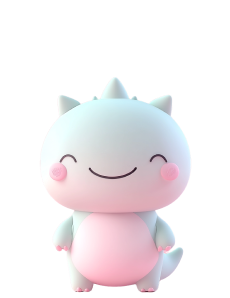
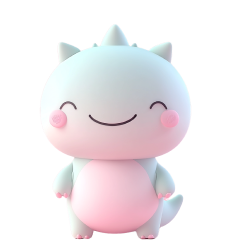
fix: smaller animal image in small devices

diff --git a/src/components/profile/ProfileCard.tsx b/src/components/profile/ProfileCard.tsx
@@ -20,16 +20,18 @@ const ProfileCard: React.FC<ProfileCardProps> = ({
   return (
     <div
       className={cn(
-        "profile-card-background rounded-[30px] shadow-md overflow-hidden flex flex-col justify-center items-center gap-[8.61px] p-[20px_20px_15px] select-none",
+        "profile-card-background rounded-4xl shadow-md overflow-hidden flex flex-col justify-center items-center gap-2 p-5 select-none",
         className
       )}
     >
-      <div className="flex flex-col items-center gap-[15px] w-[245.47px]">
+      <div className="flex flex-col items-center gap-4">
         <Badge
           variant="outline"
           className={cn(
-            "profile-badge rounded-[50px] px-[13px] py-[4px] flex justify-center items-center gap-[3px]",
-            profile.gender === "MALE" ? "text-blue" : "text-primary"
+            "profile-badge rounded-full px-3 py-1 flex justify-center items-center gap-1",
+            profile.gender === "MALE"
+              ? "border-blue/50 text-blue"
+              : "border-primary/50 text-primary"
           )}
         >
           {animalDisplayMap[profile.animal]}상
@@ -41,40 +43,32 @@ const ProfileCard: React.FC<ProfileCardProps> = ({
           />
           {profile.mbti}
         </Badge>
-        <div className="flex flex-col items-stretch gap-[-5px] w-full">
-          <div className="flex flex-col items-stretch w-full">
-            <div className="flex flex-col items-center w-full">
-              <AnimalImage animalType={profile.animal} className="w-full" />
-            </div>
-          </div>
-          <div className="flex flex-col items-stretch gap-[5px] w-full">
-            <div className="flex flex-col items-stretch w-full">
-              <div className="px-[6.89px] flex flex-col items-stretch gap-[7.75px] w-full">
-                <h3 className="text-[#404040] text-[24.97px] font-semibold leading-[1.3em] tracking-[-1%] text-center w-full">
-                  {profile.nickname}
-                </h3>
-              </div>
-            </div>
-
+        <div className="flex flex-col items-center w-full">
+          <AnimalImage
+            animalType={profile.animal}
+            className="w-full max-w-[150px] sm:max-w-[230px]"
+          />
+        </div>
+        <div className="flex flex-col items-stretch w-full">
+          <div className="flex flex-col items-stretch gap-3 w-full">
+            <h3 className="text-foreground text-xl font-semibold leading-5 text-center w-full">
+              {profile.nickname}
+            </h3>
             {contact ? (
-              <div className="w-full flex flex-row justify-center items-center gap-[4px] px-[16px] py-4 bg-[#FFF2F7] border border-[rgba(238,81,138,0.2)] rounded-[16px]">
-                <span className="text-[18px] font-medium leading-[1.3em] tracking-[-1%] text-[#EE518A] text-center">
+              <div className="w-full flex flex-row justify-center items-center gap-1 p-4 bg-[#FFF2F7] border border-[rgba(238,81,138,0.2)] rounded-2xl">
+                <span className="text-lg font-medium leading-5 text-primary text-center">
                   {contact}
                 </span>
               </div>
             ) : (
-              <div className="flex flex-col items-stretch gap-[10px] p-[8.61px_10.34px] w-full">
+              <div className="flex flex-col items-stretch gap-2 w-full">
                 {profile.introSentences.map((sentence, index) => (
-                  <div
+                  <p
                     key={index}
-                    className="flex flex-row justify-stretch items-stretch gap-[8.61px] w-full"
+                    className="text-foreground font-medium leading-5 text-start w-full"
                   >
-                    <div className="flex flex-row justify-stretch items-stretch gap-[8.61px] w-full">
-                      <p className="text-[#525252] text-[16px] font-medium leading-[1.3em] tracking-[-1%] text-left w-full">
-                        {sentence}
-                      </p>
-                    </div>
-                  </div>
+                    {sentence}
+                  </p>
                 ))}
               </div>
             )}
